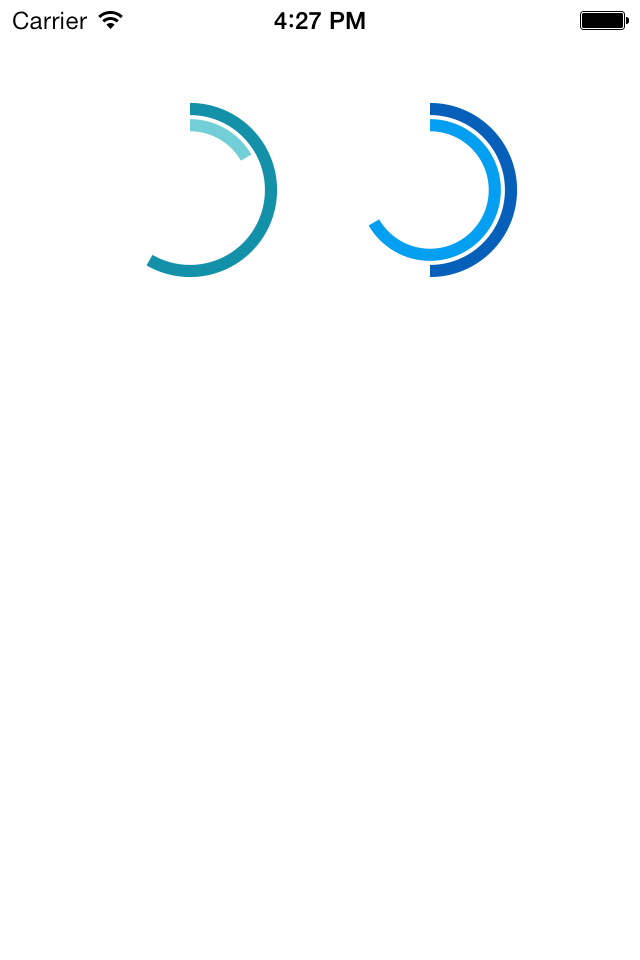
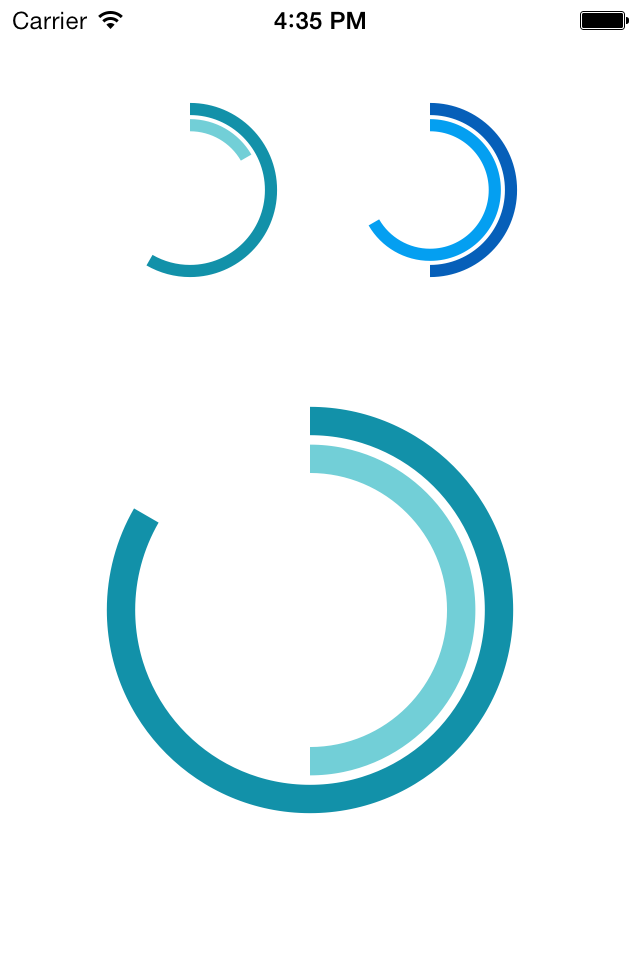
Modified Demo.png

Changed region(s): [[0.1562, 0.4062, 0.8125, 0.875], [0.4688, 0.0, 0.5625, 0.0312]]

diff --git a/TimeIcon/ViewController.m b/TimeIcon/ViewController.m
@@ -30,9 +30,14 @@
     pmClock.MM = 40;
     pmClock.backgroundColor = [UIColor whiteColor];
     
+    TimeIconView *bigClock = [[TimeIconView alloc] initWithFrame:CGRectMake(50, 200, 210, 210)];
+    bigClock.HH = 10;
+    bigClock.MM = 30;
+    bigClock.backgroundColor = [UIColor whiteColor];
+    
     [self.view addSubview:amClock];
     [self.view addSubview:pmClock];
-    
+    [self.view addSubview:bigClock];
 }
 
 - (void)didReceiveMemoryWarning
